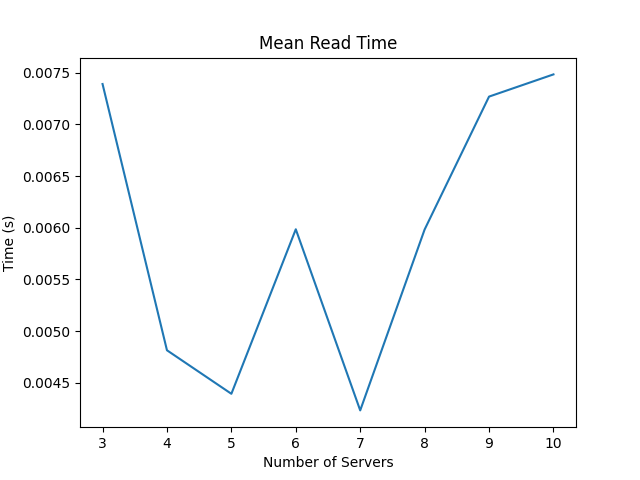
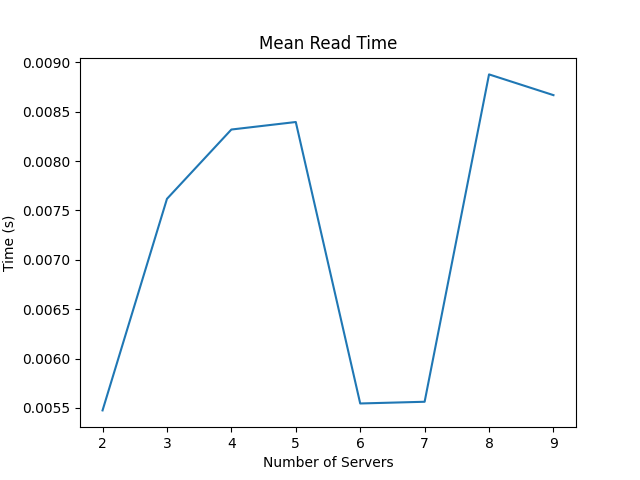
done analysis

diff --git a/A2/analysis/README.md b/A2/analysis/README.md
@@ -1,0 +1,21 @@
+# Part-1
+A-1: Default Configuration
+Total read time: 0.7550139427185059
+Total write time: 11.670790910720825
+Average read time: 0.007550139427185059
+Average write time: 0.11670790910720825
+Saved plot: Read Time to A1_read_time.png
+Saved plot: Write Time to A1_write_time.png
+
+# Part-2
+A-2: Default Configuration
+Total read time: 0.8818745613098145
+Total write time: 19.31726360321045
+Average read time: 0.008818745613098145
+Average write time: 0.1931726360321045
+Saved plot: Read Time to A2_read_time.png
+Saved plot: Write Time to A2_write_time.png
+
+# Part-3
+
+
